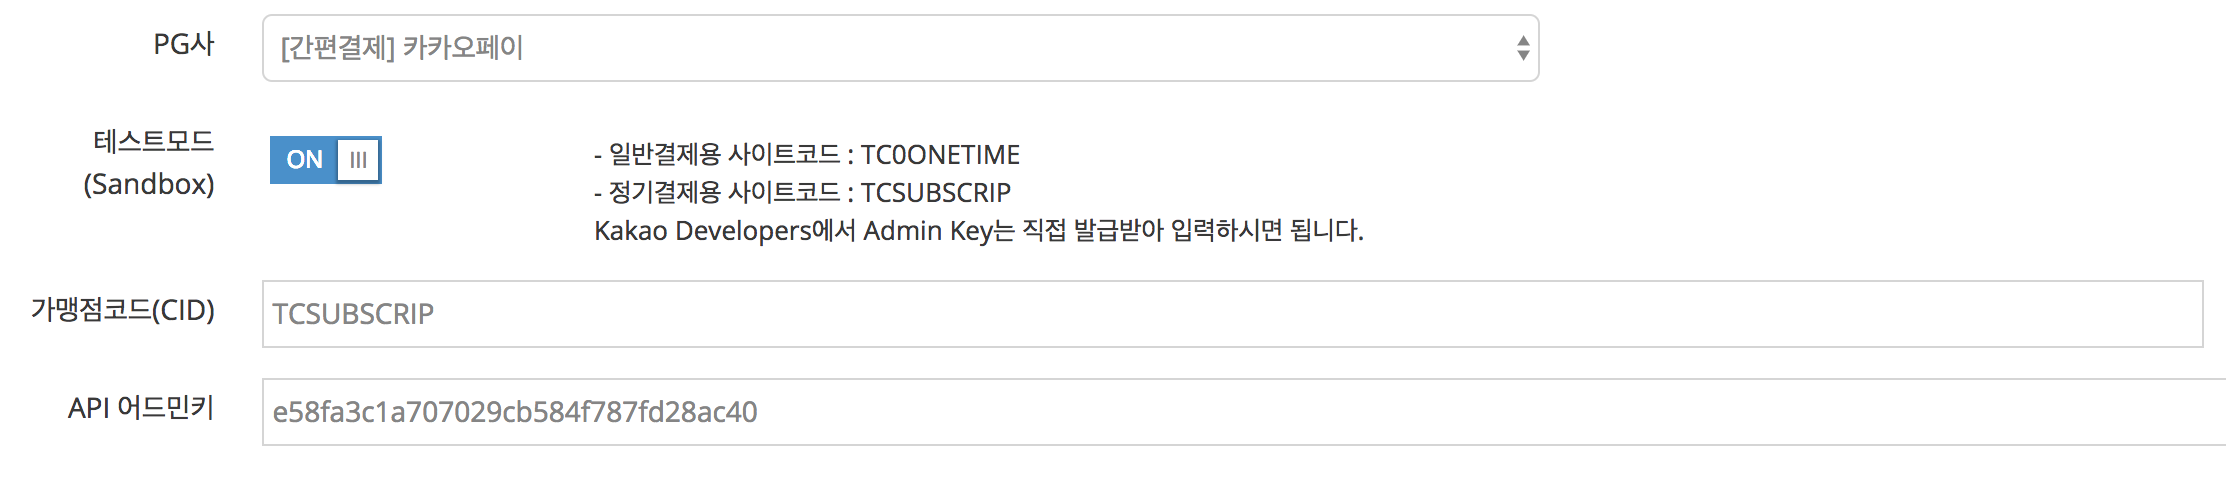
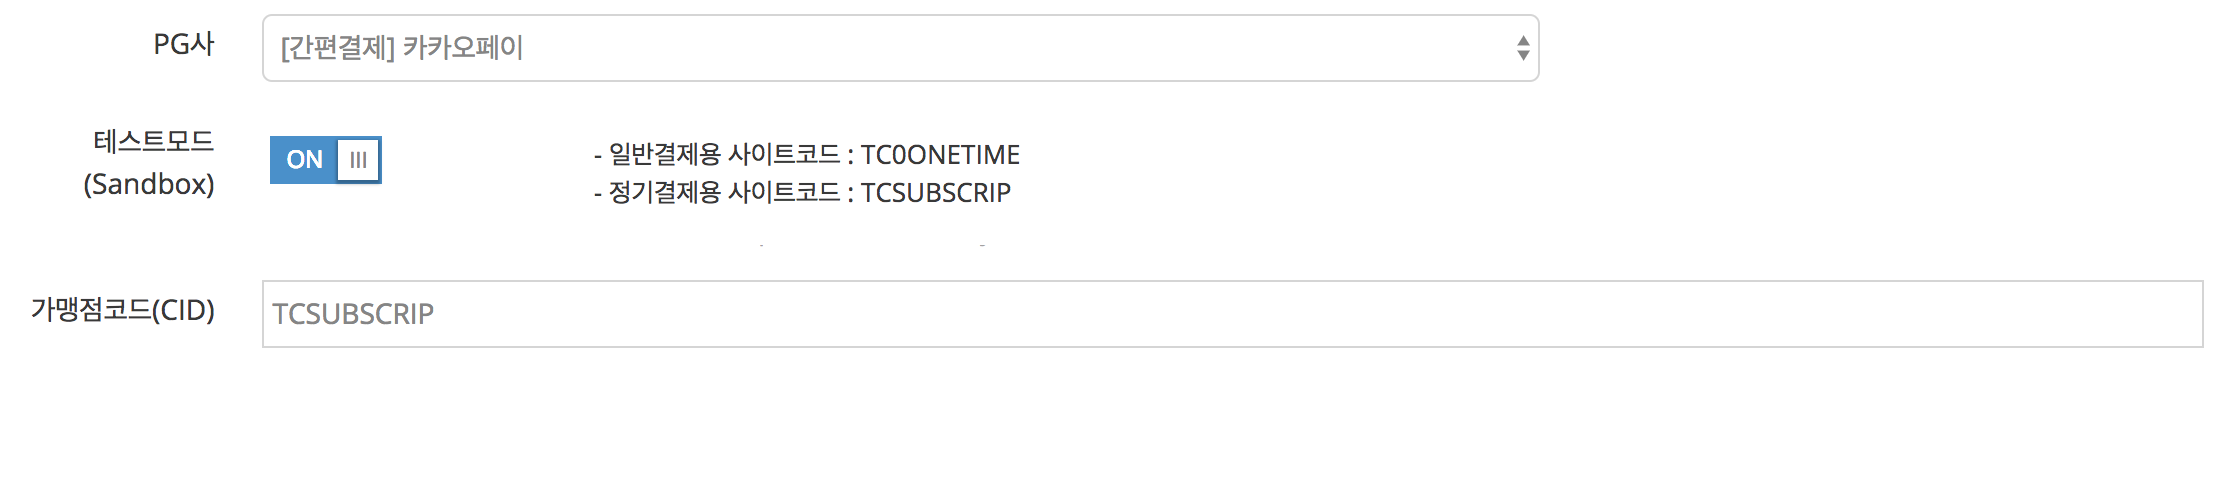
카카오페이 정기결제 어드민키 입력받을 필요 없음

Changed region(s): [[0.031, 0.7908, 1.0, 0.9372], [0.248, 0.4393, 0.6199, 0.5272]]

diff --git a/비인증결제/example/kakaopay-request-billing-key.md b/비인증결제/example/kakaopay-request-billing-key.md
@@ -9,23 +9,12 @@
 
 1. PG사 : [간편결제] 카카오페이 선택 후, 테스트모드 설정 ON상태로 둡니다. 
 2. 가맹점코드(CID)에는, `TCSUBSCRIP` 를 입력합니다. 
-3. API 어드민 키는, [Kakao Developers](https://developers.kakao.com/)에서 API키를 발급받아 복사해넣습니다. 
-4. **API 어드민 키 발급시, 사이트 도메인은 `https://service.iamport.kr` 을 입력합니다.** 
-
-![카카오페이-Kakao Developers](../screenshot/kakao-developers.png)
 
 ## 1.2 상용모드 설정  
 
 1. [아임포트 PG가입 페이지](http://www.iamport.kr)에서 카카오페이 가입 신청을 합니다. 
 2. PG사 : [간편결제] 카카오페이 선택 후, 테스트모드 설정 OFF상태로 둡니다. 
 3. 가맹점코드(CID)에는, 계약 후 발급받은 CID 를 입력합니다. (정기결제가 가능한 CID를 발급받으셔야 합니다)
-4. API 어드민 키는, [Kakao Developers](https://developers.kakao.com/)에서 API키를 발급받아 복사해넣습니다. (테스트모드에서 사용한 것과 구분하는 것을 권장합니다)
-5. **API 어드민 키 발급시, 사이트 도메인은 `https://service.iamport.kr` 을 입력합니다.** 
-
-![카카오페이-Kakao Developers](../screenshot/kakao-developers.png)
-
-아임포트 플랫폼을 통해 결제가 이뤄지기 때문에, API 어드민 키 발급시 사이트 도메인은 `https://service.iamport.kr`를 반드시 입력해주셔야 합니다.  
-
 
 
 ## 2. 일반 신용카드 결제와 빌링키 발급 결제의 차이  
